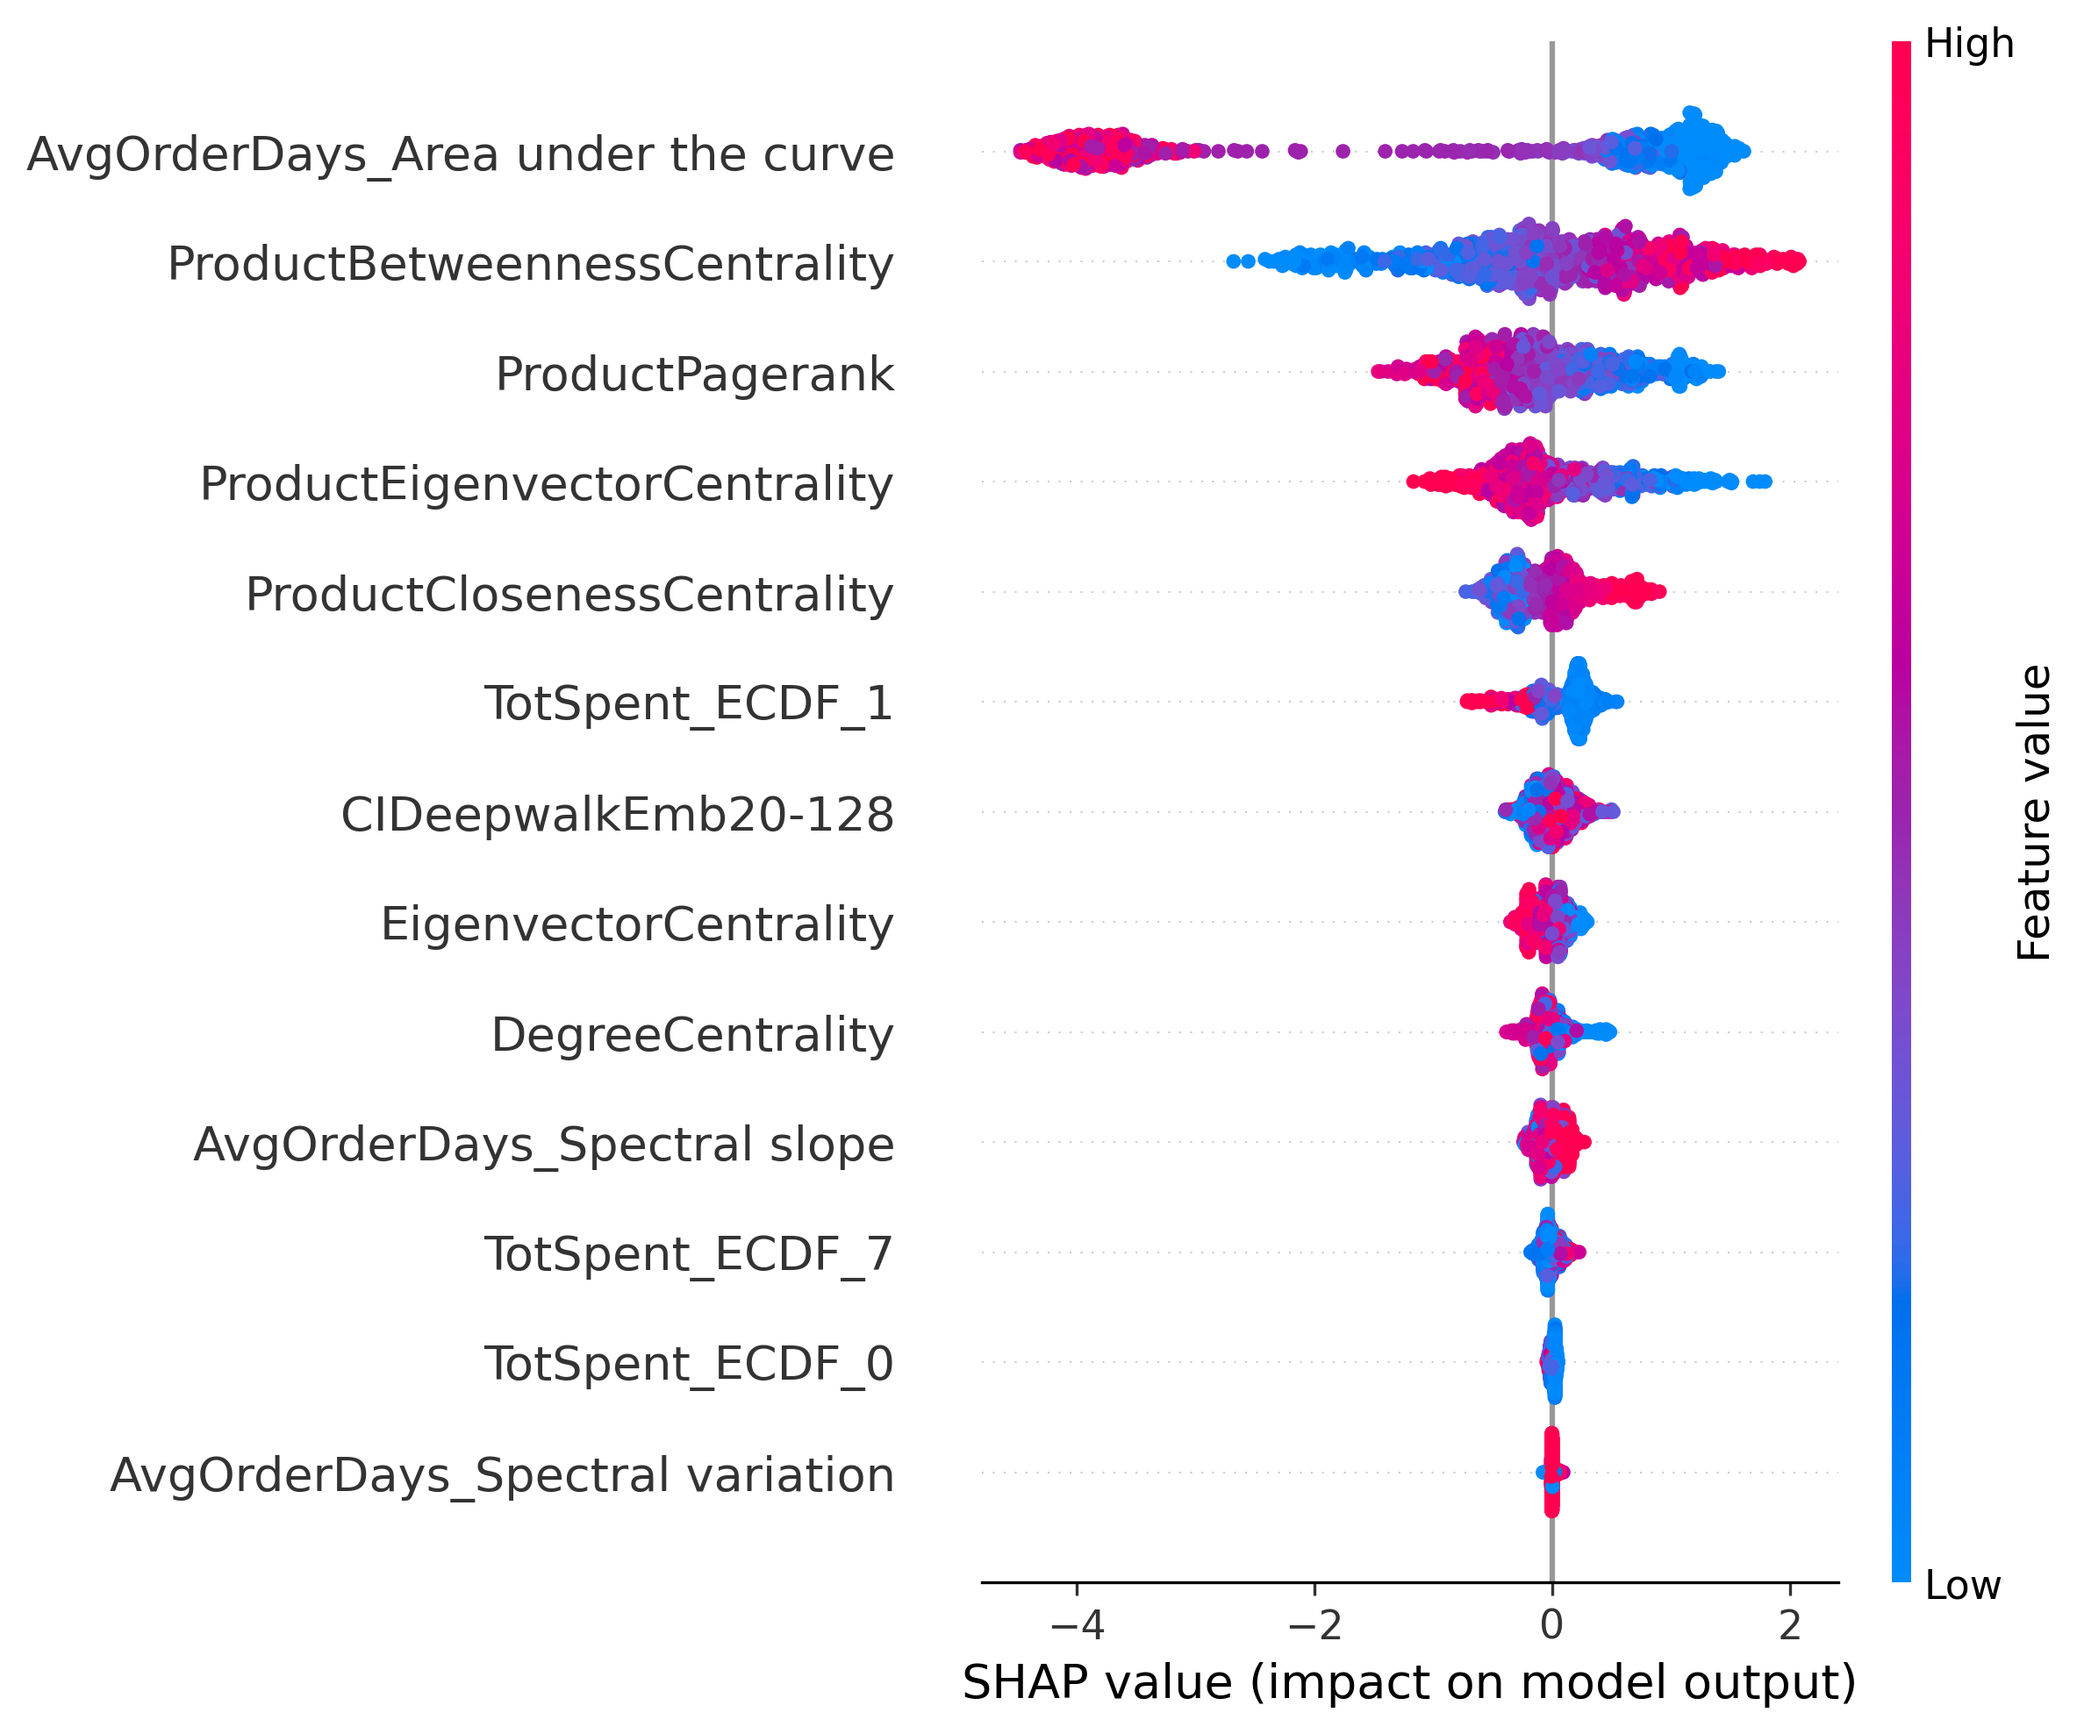
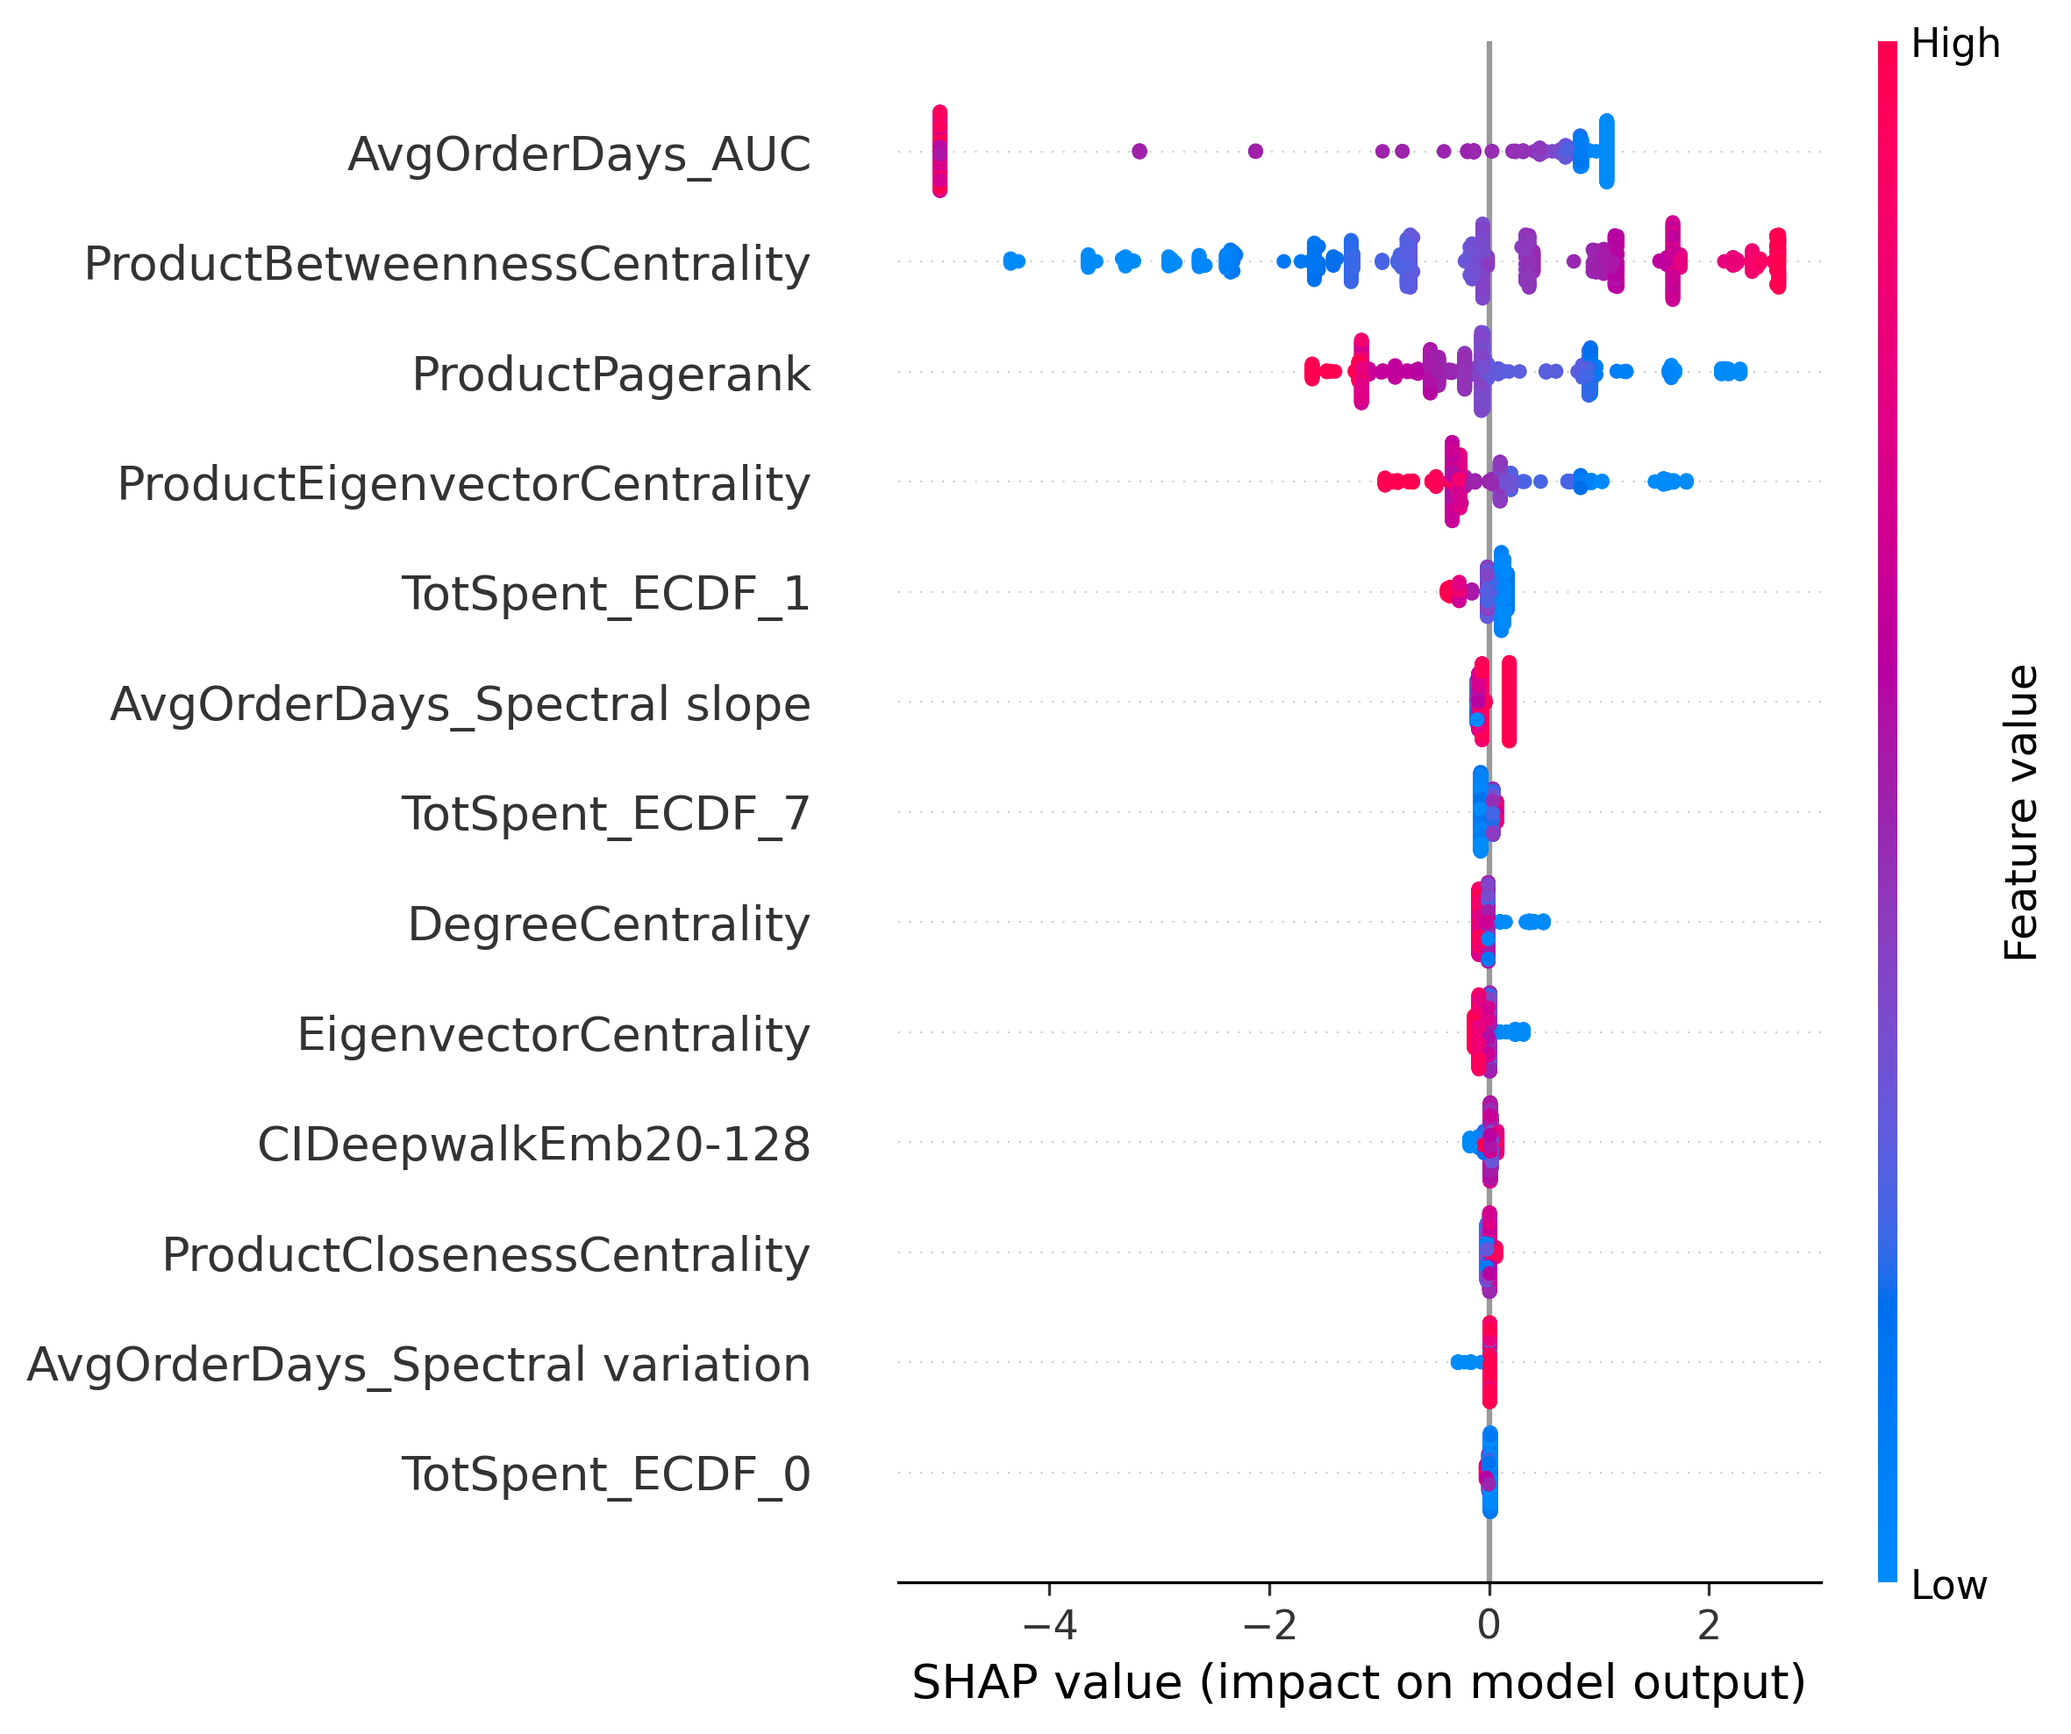
Finished error analysis.

diff --git a/error_analysis/error_analysis_with_shap_values.py b/error_analysis/error_analysis_with_shap_values.py
@@ -25,12 +25,25 @@ if __name__ == '__main__':
     y = pd.read_csv(Path('..', 'data', 'online_sales_labels_tsfel.csv'),
                     index_col=0)['CustomerChurned']
 
+    X.columns = [col.replace('Area under the curve', 'AUC') for col in X.columns]
+
     # split the dataset, since the model has been validated on the validation set, we
     # will use the test set for the error analysis:
     X_train, X_val, X_test, y_train, y_val, y_test = train_validation_test_split(X, y, validation=True)
 
-    # tune the model:
-    best_params = tuner(X_train, y_train, X_val, y_val)
+    # check if the best parameters have already been saved:
+    if Path('..', 'data', 'best_params', 'best_params_dr_model.txt').exists():
+        # load the best parameters from the text file:
+        with open(Path('..', 'data', 'best_params', 'best_params_dr_model.txt'), 'r') as f:
+            best_params = eval(f.read())
+    else:
+        # tune the model:
+        best_params = tuner(X_train, y_train, X_val, y_val, fast=True)
+        # save the best parameters:
+        # check the path exists:
+        Path('..', 'data', 'best_params').mkdir(parents=True, exist_ok=True)
+        # save the best parameters:
+        pd.DataFrame(best_params, index=[0]).to_csv(Path('..', 'data', 'best_params', 'best_params_dr_model.txt'))
 
     # instantiate the model:
     model = XGBClassifier(**best_params, objective="binary:logistic", random_state=42, n_jobs=-1)
@@ -73,7 +86,9 @@ if __name__ == '__main__':
                                              base_values=explainer.expected_value, data=X_test.iloc[i],
                                              feature_names=X.columns), show=False)
         # give more space for the y-axis:
-        plt.subplots_adjust(left=0.4, right=0.9, top=0.9, bottom=0.2)
+        plt.subplots_adjust(left=0.5, right=0.9, top=0.9, bottom=0.2)
+        # increase the size of the plot:
+        plt.gcf().set_size_inches(10, 5)
         plt.savefig(Path('..', 'plots', 'error_analysis', f'fn_{i}.png'))
         plt.close()
 
@@ -86,8 +101,10 @@ if __name__ == '__main__':
                                              base_values=explainer.expected_value, data=X_test.iloc[tp],
                                              feature_names=X.columns), show=False)
         # give more space for the y-axis:
-        plt.subplots_adjust(left=0.4, right=0.9, top=0.9, bottom=0.2)
-        plt.subplots_adjust(left=0.4, right=0.9, top=0.9, bottom=0.2)
+        plt.subplots_adjust(left=0.5, right=0.9, top=0.9, bottom=0.2)
+        plt.subplots_adjust(left=0.5, right=0.9, top=0.9, bottom=0.2)
+        # increase the size of the plot:
+        plt.gcf().set_size_inches(10, 5)
         plt.savefig(Path('..', 'plots', 'error_analysis', f'tp_{tp}.png'))
         plt.close()
 
@@ -102,6 +119,8 @@ if __name__ == '__main__':
         # give more space for the y-axis:
         plt.subplots_adjust(left=0.5, right=0.9, top=0.9, bottom=0.2)
         plt.subplots_adjust(left=0.5, right=0.9, top=0.9, bottom=0.2)
+        # increase the size of the plot:
+        plt.gcf().set_size_inches(10, 5)
         plt.savefig(Path('..', 'plots', 'error_analysis', f'tn_{tn}.png'))
         plt.close()
 

diff --git a/modelling/feature_selection_performances/evaluate_features_selection.py b/modelling/feature_selection_performances/evaluate_features_selection.py
@@ -75,11 +75,11 @@ if __name__ == '__main__':
     exhaustive_path = Path('..', '..', 'data', 'online_sales_dataset_fs_exhaustive.csv')
 
     # evaluate the models:
-    # evaluate_csv(full_features_path, 'all_fe_features', fast=True)
+    evaluate_csv(full_features_path, 'all_fe_features', fast=True)
     evaluate_csv(variance_threshold_path, f'variance_threshold_fs_{threshold}', fast=True)
     evaluate_csv(mutual_info_path, f'mutual_information_fs_{threshold}', fast=True)
-    # evaluate_csv(forward_selection_path, 'forward_selection_fs', fast=True)
+    evaluate_csv(forward_selection_path, 'forward_selection_fs', fast=True)
     evaluate_csv(backward_selection_path, 'backward_selection_fs', fast=True)
-    # evaluate_csv(recursive_elimination_path, 'recursive_elimination_fs', fast=True)
-    # evaluate_csv(exhaustive_path, 'exhaustive_fs', fast=True)
+    evaluate_csv(recursive_elimination_path, 'recursive_elimination_fs', fast=True)
+    evaluate_csv(exhaustive_path, 'exhaustive_fs', fast=True)
 
